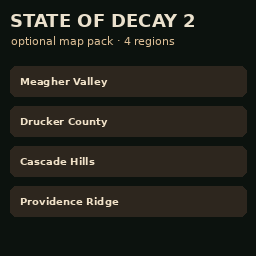
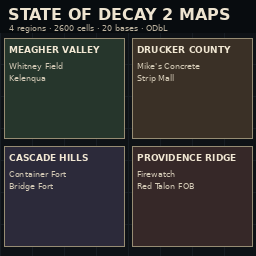
docs: add 256x256 preview and description

diff --git a/SOD2_WORKSHOP_DESCRIPTION.md b/SOD2_WORKSHOP_DESCRIPTION.md
@@ -1,0 +1,43 @@
+# State of Decay 2 Maps
+
+Четыре отдельных региона по мотивам State of Decay 2. Ручная реконструкция,
+без импорта игровых ассетов.
+
+## Карты
+
+**Meagher Valley** — фермерская долина, Whitney Field, Camp Kelenqua,
+Mazzara Farm, Squelones Brewing, Sasser Regional Hospital.
+
+**Drucker County** — пустынный округ, Mike's Concrete, Barricaded Strip Mall,
+Knights Drive-In, Wheelhouse Truck Stop, Lundegaard Mansion.
+
+**Cascade Hills** — холмы и мосты, Container Fort, Bridge Fort,
+Church on the Hill, Corner Office, Cash Beaumont's.
+
+**Providence Ridge** — лесной север, Firewatch Fortress, Rusty Rosie's,
+Lumber Mill, Red Talon FOB, Tranquility Factory.
+
+## Размер
+
+```text
+4 карты
+2600 клеток
+650 клеток на карту
+5 баз/достопримечательностей на карту
+```
+
+## Требование
+
+Нужен базовый мод:
+
+```text
+KnoxMap OMSK EXPANSION
+```
+
+SoD2-пак ставится отдельным item и включается вместе с ним. Новый save
+обязателен.
+
+## Важно
+
+Это ручные планировки зданий и баз, а не копирование карт из State of Decay 2.
+Визуал, двери, ворота и крышный доступ могут требовать доработки.
